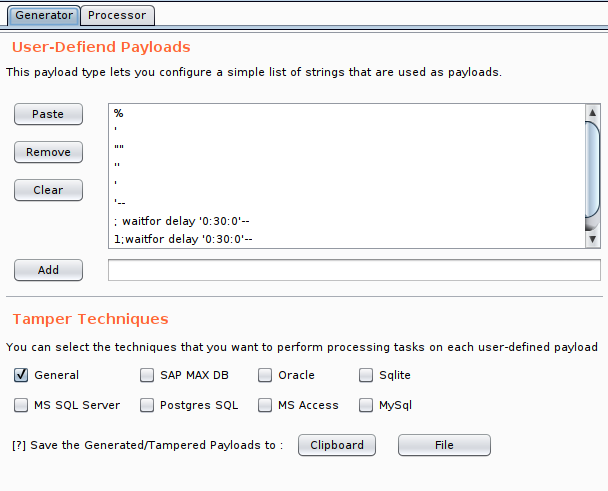
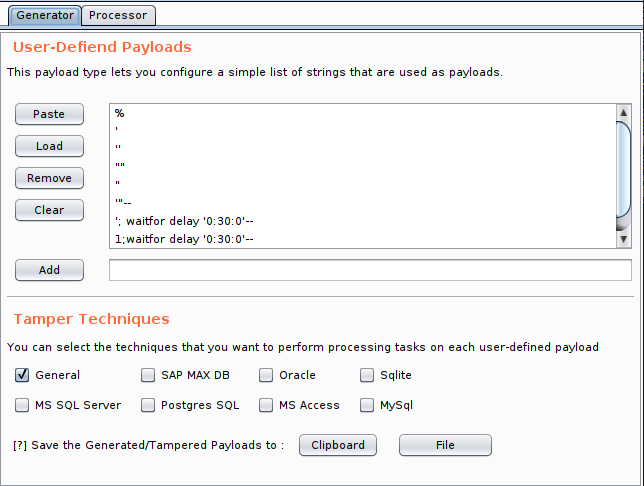
version 1.2 changes

Changed region(s): [[0.0, 0.0, 1.0, 1.0]]

diff --git a/UI.py b/UI.py
@@ -39,21 +39,38 @@ class PluginUI():
             for item in items:
                 self.extender.PayloadList.append(item)
             self.listPayloads.setListData(self.extender.PayloadList)
+        self.writePayloadsListFile()
+
+    def loadPayloadButtonAction(self, event):
+        fileChooser = JFileChooser()       
+        fileChooser.dialogTitle = 'Choose Payload List'
+        fileChooser.fileSelectionMode = JFileChooser.FILES_ONLY
+        if (fileChooser.showOpenDialog(self.mainPanel) == JFileChooser.APPROVE_OPTION):
+            file = fileChooser.getSelectedFile()
+            with open(file.getAbsolutePath(),'r') as reader:
+                    for line in reader.readlines():
+                        self.extender.PayloadList.append(line.strip('\n'))
+            self.listPayloads.setListData(self.extender.PayloadList)
+            self.showMessage('{} payloads loaded'.format(len(self.extender.PayloadList)))
+            self.writePayloadsListFile()
 
     def removePayloadButtonAction(self, event):
         for item in self.listPayloads.getSelectedValuesList():
             self.extender.PayloadList.remove(item)
         self.listPayloads.setListData(self.extender.PayloadList)
+        self.writePayloadsListFile()
 
     def clearPayloadButtonAction(self, event):
         self.extender.PayloadList[:] = []
         self.listPayloads.setListData(self.extender.PayloadList)
+        self.writePayloadsListFile()
 
     def addPayloadButtonAction(self, event):
         if str(self.textNewPayload.text).strip():
             self.extender.PayloadList.append(self.textNewPayload.text)
             self.textNewPayload.text = ''
             self.listPayloads.setListData(self.extender.PayloadList)
+        self.writePayloadsListFile()
 
     def toClipboardButtonAction(self, event):
         self.extender.generatePayloads()
@@ -87,6 +104,30 @@ class PluginUI():
         result = '\n'.join(tamperedPayloads)
         self.textTamperedPayload.text = result
 
+    def comboProcessorTechAction(self, event):
+        varName = 'SQLiQueryTampering_comboProcessorTech'
+        state = str(self.comboProcessorTech.getSelectedIndex())
+        self.extender.callbacks.saveExtensionSetting(varName, state)
+
+    def OnCheck(self, event):
+        chk = event.getSource()
+        varName = 'SQLiQueryTampering_{}'.format(chk.text)
+        state =str(1 if chk.isSelected() else 0)
+        self.extender.callbacks.saveExtensionSetting(varName, state)
+
+    def writePayloadsListFile(self):
+        payloads = '\n'.join(self.extender.PayloadList)
+        payloads = payloads.encode('utf-8')
+        with open('payloads.lst','w') as writer:
+                writer.write(payloads)
+
+    def readPayloadsListFile(self):
+        result = []
+        with open('payloads.lst','r') as reader:
+                for line in reader.readlines():
+                    result.append(line.strip('\n'))
+        return result
+
     def initComponents(self):
         TabbedPane1 = JTabbedPane()
         GeneratorScrollPane = JScrollPane()
@@ -96,6 +137,7 @@ class PluginUI():
         spanePayloadList = JScrollPane()
         self.listPayloads = JList()
         pastePayloadButton = JButton(actionPerformed=self.pastePayloadButtonAction)
+        loadPayloadButton = JButton(actionPerformed=self.loadPayloadButtonAction)
         removePayloadButton = JButton(actionPerformed=self.removePayloadButtonAction)
         clearPayloadButton = JButton(actionPerformed=self.clearPayloadButtonAction)
         self.textNewPayload = JTextField()
@@ -103,21 +145,21 @@ class PluginUI():
         jSeparator1 = JSeparator()
         jlbl3 = JLabel()
         jlbl4 = JLabel()
-        self.chkGeneral = JCheckBox()
-        self.chkMAXDB = JCheckBox()
-        self.chkMSSQL = JCheckBox()
-        self.chkMSAccess = JCheckBox()
-        self.chkPostgres = JCheckBox()
-        self.chkOracle = JCheckBox()
-        self.chkSqlite = JCheckBox()
-        self.chkMysql = JCheckBox()
+        self.chkGeneral = JCheckBox(actionPerformed = self.OnCheck)
+        self.chkMAXDB = JCheckBox(actionPerformed = self.OnCheck)
+        self.chkMSSQL = JCheckBox(actionPerformed = self.OnCheck)
+        self.chkMSAccess = JCheckBox(actionPerformed = self.OnCheck)
+        self.chkPostgres = JCheckBox(actionPerformed = self.OnCheck)
+        self.chkOracle = JCheckBox(actionPerformed = self.OnCheck)
+        self.chkSqlite = JCheckBox(actionPerformed = self.OnCheck)
+        self.chkMysql = JCheckBox(actionPerformed = self.OnCheck)
         jlbl5 = JLabel()
         toClipboardButton = JButton(actionPerformed=self.toClipboardButtonAction)
         toFileButton = JButton(actionPerformed=self.toFileButtonAction)
         ProcessorScrollPane = JScrollPane()
         ProcessorPanel = JPanel()
         jLabel1 = JLabel()
-        self.comboProcessorTech = JComboBox()
+        self.comboProcessorTech = JComboBox(itemStateChanged=self.comboProcessorTechAction)
         jSeparator2 = JSeparator()
         jLabel2 = JLabel()
         jLabel3 = JLabel()
@@ -135,22 +177,12 @@ class PluginUI():
         jlbl2.setText("This payload type lets you configure a simple list of strings that are used as payloads.")
 
         spanePayloadList.setViewportView(self.listPayloads)
-        self.extender.PayloadList=[
-            "%",
-            "'",
-            "\"\"",
-            "''",
-            "'",
-            "'--",
-            "; waitfor delay '0:30:0'--",
-            "1;waitfor delay '0:30:0'--",
-           "(\",)')(,(("
-        ]
+        self.extender.PayloadList = self.readPayloadsListFile() 
         self.listPayloads.setListData(self.extender.PayloadList)
 
         pastePayloadButton.setText("Paste")
-        pastePayloadButton.setActionCommand("pastePayloadButton")
-        # pastePayloadButton.addActionListener()
+
+        loadPayloadButton.setText("Load")
 
         removePayloadButton.setText("Remove")
 
@@ -167,21 +199,44 @@ class PluginUI():
         jlbl4.setText("You can select the techniques that you want to perform processing tasks on each user-defined payload")
 
         self.chkGeneral.setText("General")
-        self.chkGeneral.setSelected(True)
+        varName = 'SQLiQueryTampering_{}'.format(self.chkGeneral.text)
+        state = self.extender.callbacks.loadExtensionSetting(varName)
+        if state : self.chkGeneral.setSelected(int(state))
 
         self.chkMAXDB.setText("SAP MAX DB")
+        varName = 'SQLiQueryTampering_{}'.format(self.chkMAXDB.text)
+        state = self.extender.callbacks.loadExtensionSetting(varName)
+        if state : self.chkMAXDB.setSelected(int(state))
 
         self.chkMSSQL.setText("MS SQL Server")
+        varName = 'SQLiQueryTampering_{}'.format(self.chkMSSQL.text)
+        state = self.extender.callbacks.loadExtensionSetting(varName)
+        if state : self.chkMSSQL.setSelected(int(state))
 
         self.chkMSAccess.setText("MS Access")
+        varName = 'SQLiQueryTampering_{}'.format(self.chkMSAccess.text)
+        state = self.extender.callbacks.loadExtensionSetting(varName)
+        if state : self.chkMSAccess.setSelected(int(state))
 
         self.chkPostgres.setText("Postgres SQL")
+        varName = 'SQLiQueryTampering_{}'.format(self.chkPostgres.text)
+        state = self.extender.callbacks.loadExtensionSetting(varName)
+        if state : self.chkPostgres.setSelected(int(state))
 
         self.chkOracle.setText("Oracle")
+        varName = 'SQLiQueryTampering_{}'.format(self.chkOracle.text)
+        state = self.extender.callbacks.loadExtensionSetting(varName)
+        if state : self.chkOracle.setSelected(int(state))
 
         self.chkSqlite.setText("Sqlite")
+        varName = 'SQLiQueryTampering_{}'.format(self.chkSqlite.text)
+        state = self.extender.callbacks.loadExtensionSetting(varName)
+        if state : self.chkSqlite.setSelected(int(state))
 
         self.chkMysql.setText("MySql")
+        varName = 'SQLiQueryTampering_{}'.format(self.chkMysql.text)
+        state = self.extender.callbacks.loadExtensionSetting(varName)
+        if state : self.chkMysql.setSelected(int(state))
 
         jlbl5.setText("[?] Save the Generated/Tampered Payloads to :")
 
@@ -206,6 +261,7 @@ class PluginUI():
                                 .addGroup(GeneratorPanelLayout.createParallelGroup(GroupLayout.Alignment.LEADING, False)
                                     .addComponent(removePayloadButton, GroupLayout.DEFAULT_SIZE, GroupLayout.DEFAULT_SIZE, Short.MAX_VALUE)
                                     .addComponent(clearPayloadButton, GroupLayout.DEFAULT_SIZE, GroupLayout.DEFAULT_SIZE, Short.MAX_VALUE)
+                                    .addComponent(loadPayloadButton, GroupLayout.DEFAULT_SIZE, GroupLayout.DEFAULT_SIZE, Short.MAX_VALUE)
                                     .addComponent(pastePayloadButton, GroupLayout.DEFAULT_SIZE, GroupLayout.DEFAULT_SIZE, Short.MAX_VALUE)
                                     .addComponent(addPayloadButton, GroupLayout.DEFAULT_SIZE, GroupLayout.DEFAULT_SIZE, Short.MAX_VALUE))
                                 .addGap(21, 21, 21)
@@ -250,9 +306,11 @@ class PluginUI():
                     .addComponent(spanePayloadList, GroupLayout.PREFERRED_SIZE, GroupLayout.DEFAULT_SIZE, GroupLayout.PREFERRED_SIZE)
                     .addGroup(GeneratorPanelLayout.createSequentialGroup()
                         .addComponent(pastePayloadButton)
-                        .addPreferredGap(LayoutStyle.ComponentPlacement.UNRELATED)
+                        .addPreferredGap(LayoutStyle.ComponentPlacement.RELATED)
+                        .addComponent(loadPayloadButton)
+                        .addPreferredGap(LayoutStyle.ComponentPlacement.RELATED)
                         .addComponent(removePayloadButton)
-                        .addPreferredGap(LayoutStyle.ComponentPlacement.UNRELATED)
+                        .addPreferredGap(LayoutStyle.ComponentPlacement.RELATED)
                         .addComponent(clearPayloadButton)))
                 .addPreferredGap(LayoutStyle.ComponentPlacement.RELATED)
                 .addGroup(GeneratorPanelLayout.createParallelGroup(GroupLayout.Alignment.BASELINE)
@@ -287,10 +345,14 @@ class PluginUI():
         GeneratorScrollPane.setViewportView(GeneratorPanel)
 
         TabbedPane1.addTab("Generator", GeneratorScrollPane)
+
+        varName = 'SQLiQueryTampering_comboProcessorTech'
+        state = self.extender.callbacks.loadExtensionSetting(varName)
         
         for item in self.extender.getTamperFuncsName():
             self.comboProcessorTech.addItem(item)
-        self.comboProcessorTech.setSelectedIndex(0)
+        
+        if state : self.comboProcessorTech.setSelectedIndex(int(state))
 
         jLabel1.setText("Processor Technique :")
 
@@ -308,7 +370,7 @@ class PluginUI():
         self.textTamperedPayload.setRows(5)
         jScrollPane2.setViewportView(self.textTamperedPayload)
 
-        tamperPayloadButton.setText("Tamper Payload")
+        tamperPayloadButton.setText("Tamper Payloads")
 
         ProcessorPanelLayout = GroupLayout(ProcessorPanel)
         ProcessorPanel.setLayout(ProcessorPanelLayout)

diff --git a/tamper.py b/tamper.py
@@ -88,7 +88,7 @@ class SQLiTamper():
                     self.htmlencode, self.hex2char, self.halfversionedmorekeywords, self.greatest, self.escapequotes, self.equaltolike, self.concat2concatws, \
                     self.commentbeforeparentheses, self.commalessmid, self.commalesslimit, self.charunicodeescape, self.charunicodeencode, self.charencode, \
                     self.bluecoat, self.between, self.appendnullbyte, self.apostrophenullencode, self.apostrophemask, self.e0UNION,
-                    self.misunion, self.schemasplit, self.binary, self.dunion]
+                    self.misunion, self.schemasplit, self.binary, self.dunion, self.equaltorlike]
         self._General = [self.chardoubleencode, self.unmagicquotes, self.unionalltounion, self.symboliclogical, \
                         self.space2plus, self.randomcomments, self.randomcase, self.overlongutf8more, self.overlongutf8, \
                         self.multiplespaces, self.htmlencode, self.escapequotes, self.charunicodeescape, self.apostrophenullencode, \
@@ -111,7 +111,7 @@ class SQLiTamper():
                         self.halfversionedmorekeywords, self.greatest, self.equaltolike, self.concat2concatws, self.commentbeforeparentheses, \
                         self.commalessmid, self.commalesslimit, self.charunicodeencode, self.charencode, self.bluecoat, self.between, self.multiplespaces, \
                         self.randomcase, self.space2comment, self.space2plus, self.unionalltounion, self.unmagicquotes, self.e0UNION,
-                        self.misunion, self.schemasplit, self.binary]
+                        self.misunion, self.schemasplit, self.binary, self.equaltorlike]
         self._Oracle = [self.uppercase, self.space2randomblank, self.space2comment, self.lowercase, self.least, self.greatest, \
                         self.commentbeforeparentheses, self.charencode, self.between, self.equaltolike, self.multiplespaces, \
                         self.randomcase, self.space2plus, self.unionalltounion, self.unmagicquotes, self.dunion]
@@ -1808,3 +1808,24 @@ class SQLiTamper():
 
         return re.sub("(\d+)\s+(UNION )", r"\g<1>D\g<2>", payload, re.I) if payload else payload
 
+    def equaltorlike(self, payload, **kwargs):
+        """
+        Replaces all occurrences of operator equal ('=') with 'RLIKE' counterpart
+
+        Tested against:
+            * MySQL 4, 5.0 and 5.5
+
+        Notes:
+            * Useful to bypass weak and bespoke web application firewalls that
+            filter the equal character ('=')
+
+        >>> tamper('SELECT * FROM users WHERE id=1')
+        'SELECT * FROM users WHERE id RLIKE 1'
+        """
+
+        retVal = payload
+
+        if payload:
+            retVal = re.sub(r"\s*=\s*", " RLIKE ", retVal)
+
+        return retVal

diff --git a/sqli_query_tampering.py b/sqli_query_tampering.py
@@ -26,7 +26,7 @@ class BurpExtender(IBurpExtender, IIntruderPayloadGeneratorFactory, IIntruderPay
     callbacks.registerIntruderPayloadProcessor(self)
 
     callbacks.addSuiteTab(self)
-    print('SQLi Query Tampering v 1.1\nCreated by Xer0Days')
+    print('SQLi Query Tampering v 1.2\nCreated by Xer0Days')
     print('Based on Sqlmap\'s Tampering Functions\n')
     print('---------------------------------------------')
     print('Github:\t\thttps://github.com/xer0days\nTwitter:\thttps://twitter.com/Xer0Days')

diff --git a/README.md b/README.md
@@ -91,6 +91,12 @@ NOTE: Be sure to merge the latest from "upstream" before making a pull request!
 
 ## Changelog:
 
+**1.2:**
+  - Add tamper technique:
+    - equaltorlike: Replaces all occurrences of operator equal (`=`) with `RLIKE` counterpart
+  - Add `Load` button in User-Defined Payloads section.
+  - Auto saves the Tamper Techniques, User-Defined Payloads and Processor Technique configuration.
+
 **1.1:**
   - Add tamper techniques:
     - 0eunion: Replaces instances of `<int> UNION` with `<int>e0UNION`
